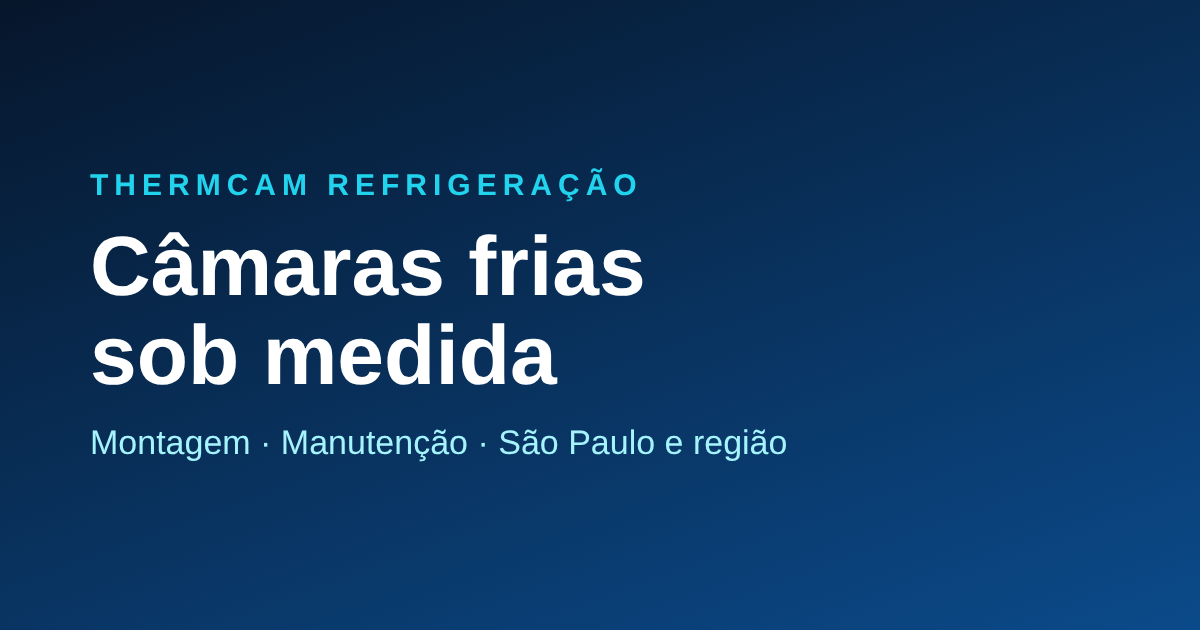
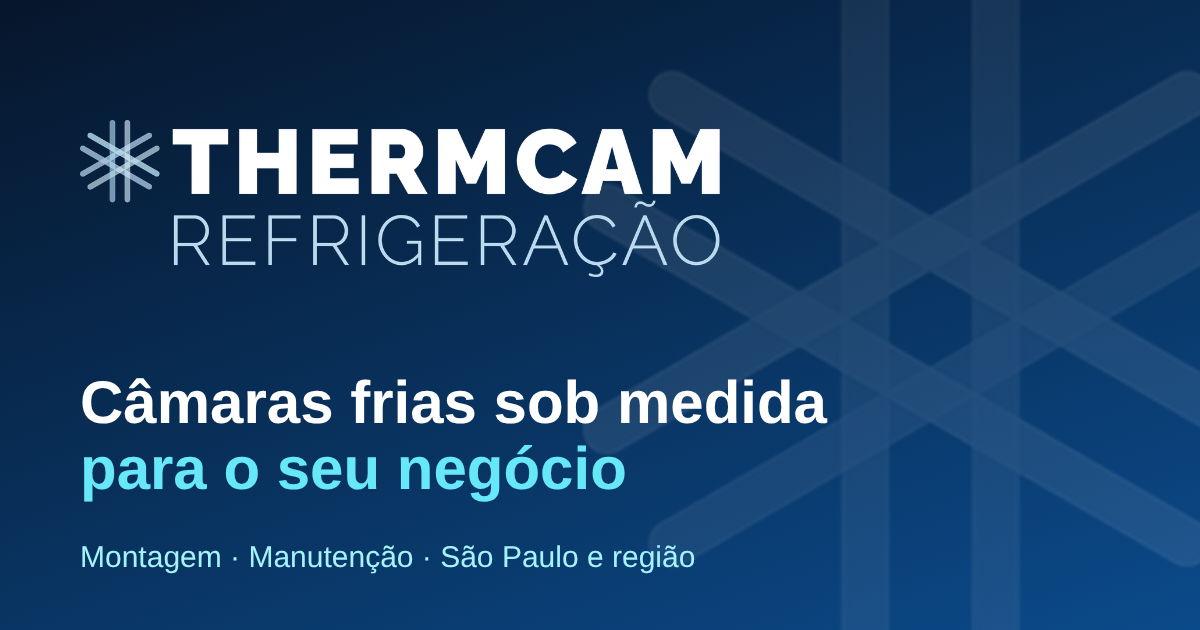
Add files via upload

diff --git a/assets/style.css b/assets/style.css
@@ -5,7 +5,7 @@
   --f-head:'Sora',system-ui,sans-serif;--f-body:'DM Sans',system-ui,sans-serif;
 }
 *{box-sizing:border-box;margin:0;padding:0}
-html{scroll-behavior:smooth;scroll-padding-top:76px}
+html{scroll-behavior:smooth;scroll-padding-top:80px}
 body{font-family:var(--f-body);color:var(--ink);background:var(--bg);line-height:1.65;font-size:17px;-webkit-font-smoothing:antialiased}
 img{max-width:100%;display:block}
 a{color:inherit}
@@ -15,16 +15,16 @@ a{color:inherit}
 h1,h2,h3,h4{font-family:var(--f-head);line-height:1.15;letter-spacing:-.02em}
 
 /* Header */
-.site-header{position:sticky;top:0;z-index:50;background:rgba(6,22,43,.92);backdrop-filter:blur(10px);border-bottom:1px solid rgba(255,255,255,.07)}
-.bar{display:flex;align-items:center;justify-content:space-between;height:68px}
+.site-header{position:sticky;top:0;z-index:50;background:rgba(255,255,255,.95);backdrop-filter:blur(10px);border-bottom:1px solid #e1ebf3;box-shadow:0 4px 18px rgba(6,22,43,.06)}
+.bar{display:flex;align-items:center;justify-content:space-between;height:72px}
 .brand{display:flex;align-items:center;gap:10px;text-decoration:none;color:#fff;font:800 1.35rem var(--f-head)}
 .brand b{color:var(--ice)}
 .nav{display:flex;align-items:center;gap:6px}
-.nav a{color:#cfe4f5;text-decoration:none;font-weight:500;font-size:.95rem;padding:8px 12px;border-radius:10px}
-.nav a:hover{color:#fff;background:rgba(255,255,255,.08)}
+.nav a{color:#27425f;text-decoration:none;font-weight:500;font-size:.95rem;padding:8px 12px;border-radius:10px}
+.nav a:hover{color:var(--navy);background:#e8f2f9}
 .nav .btn{color:#fff;margin-left:6px}
 .burger{display:none;background:none;border:0;cursor:pointer;padding:10px}
-.burger i{display:block;width:24px;height:2.5px;background:#fff;margin:5px 0;border-radius:2px;transition:.25s}
+.burger i{display:block;width:24px;height:2.5px;background:var(--navy2);margin:5px 0;border-radius:2px;transition:.25s}
 
 /* Buttons */
 .btn{display:inline-flex;align-items:center;justify-content:center;gap:8px;font:700 .98rem var(--f-body);padding:12px 22px;border-radius:999px;text-decoration:none;border:2px solid transparent;cursor:pointer;transition:transform .15s,box-shadow .15s,background .15s}
@@ -46,6 +46,8 @@ h1,h2,h3,h4{font-family:var(--f-head);line-height:1.15;letter-spacing:-.02em}
   background-size:420px 420px;animation:fall 22s linear infinite}
 @keyframes fall{to{background-position:60px 420px}}
 .hero-grid{position:relative;display:grid;grid-template-columns:1.25fr .75fr;gap:48px;align-items:center}
+.hero-grid>*{min-width:0}
+.logo-img{height:54px;width:auto;display:block}
 .eyebrow{display:inline-block;font:700 .78rem var(--f-body);letter-spacing:.14em;text-transform:uppercase;color:var(--ice);margin-bottom:14px}
 .eyebrow.dark{color:#0891b2}
 .hero h1{font-size:clamp(2.1rem,5vw,3.7rem);font-weight:800}
@@ -169,15 +171,34 @@ h1,h2,h3,h4{font-family:var(--f-head);line-height:1.15;letter-spacing:-.02em}
 /* Mobile */
 @media (max-width:900px){
   body{font-size:16.5px}
-  .hero{padding:56px 0 64px}.hero-grid,.about,.contact-grid{grid-template-columns:1fr;gap:32px}
+  .hero{padding:56px 0 64px}.hero-grid,.about,.contact-grid{grid-template-columns:minmax(0,1fr);gap:32px}
   .hero-card{display:grid;grid-template-columns:1fr 1fr;gap:12px}.hero-card .temp{margin:0}.hero-card p{grid-column:1/-1;margin:0}
   .cols3,.grid{grid-template-columns:1fr}
   .gallery{grid-template-columns:repeat(2,1fr)}
   .foot{grid-template-columns:1fr}
   .section{padding:60px 0}
   .burger{display:block}
-  .nav{position:absolute;left:0;right:0;top:68px;background:var(--navy);flex-direction:column;align-items:stretch;padding:12px 16px 20px;gap:2px;display:none;border-bottom:1px solid rgba(255,255,255,.1)}
+  .nav{position:absolute;left:0;right:0;top:72px;background:#fff;box-shadow:0 14px 24px rgba(6,22,43,.12);flex-direction:column;align-items:stretch;padding:12px 16px 20px;gap:2px;display:none;border-bottom:1px solid #e1ebf3}
   .nav.open{display:flex}.nav a{padding:13px 10px}.nav .btn{margin:8px 0 0;text-align:center}
-  .btn-row .btn{flex:1 1 100%}
+  .btn-row .btn{flex:1 1 100%;white-space:normal;text-align:center}
+  .hero h1{overflow-wrap:break-word}
+  .hero-card{padding:16px}.temp{min-width:0;padding:14px 16px}.temp strong{font-size:2.1rem}.pulse{right:12px;top:16px}
 }
 @media (min-width:640px) and (max-width:900px){.grid{grid-template-columns:repeat(2,1fr)}}
+
+/* Logo e símbolo */
+.logo-img{height:54px;width:auto;display:block}
+.site-footer .logo-img{height:50px}
+.hero::after,.contact::after{content:'';position:absolute;pointer-events:none;background:url(symbol-white.png) center/contain no-repeat;opacity:.045}
+.hero::after{right:-110px;bottom:-130px;width:560px;height:560px}
+.contact{position:relative;overflow:hidden}
+.contact::after{left:-120px;bottom:-140px;width:460px;height:460px}
+.contact-grid{position:relative;z-index:1}
+.card-ph,.post-hero-ph{position:relative;overflow:hidden}
+.card-ph::after,.post-hero-ph::after{content:'';position:absolute;right:-6%;top:50%;transform:translateY(-50%);width:62%;aspect-ratio:1;background:url(symbol-white.png) center/contain no-repeat;opacity:.2}
+.card-ph span{position:relative;z-index:1}
+.page-head{position:relative;overflow:hidden}
+.page-head::after{content:'';position:absolute;right:-40px;top:50%;transform:translateY(-50%);width:340px;height:340px;background:url(symbol-white.png) center/contain no-repeat;opacity:.08}
+.page-head .wrap{position:relative;z-index:1}
+.proj-ph img{width:64px;height:64px;object-fit:contain;opacity:.92}
+@media (max-width:900px){.logo-img{height:42px}.site-footer .logo-img{height:44px}.hero::after{width:380px;height:380px;right:-90px;bottom:-60px}.page-head::after{width:220px;height:220px}}

diff --git a/build.js b/build.js
@@ -69,6 +69,14 @@ function cardHtml(p) {
 
 // ---------- Layout ----------
 const layoutTpl = read('src/layout.html');
+// Logo e ícones (gerados a partir do logo oficial em assets/)
+const logoFile = 'logo.png';
+const brandHtml = `<img class="logo-img" src="${BASE}/assets/logo.png" alt="${esc(cfg.name)}" width="220" height="54">`;
+const brandFooterHtml = `<img class="logo-img" src="${BASE}/assets/logo-white.png" alt="${esc(cfg.name)}" width="220" height="54" loading="lazy">`;
+const iconsHtml = `<link rel="icon" href="${BASE}/assets/favicon.ico" sizes="any">
+<link rel="icon" type="image/png" sizes="32x32" href="${BASE}/assets/favicon-32.png">
+<link rel="apple-touch-icon" href="${BASE}/assets/apple-touch-icon.png">
+<link rel="manifest" href="${BASE}/site.webmanifest">`;
 const waLink = (msg) => `https://wa.me/${cfg.whatsapp}?text=${encodeURIComponent(msg)}`;
 function page({ title, description, path: p, body, jsonld = [], image = '', type = 'website', noindex = false, keywords = '' }) {
   const canonical = `${SITE}${p}`;
@@ -77,7 +85,7 @@ function page({ title, description, path: p, body, jsonld = [], image = '', type
     title: esc(title), description: esc(description), canonical, keywords: esc(keywords),
     og_image: esc(imageAbs(image)), og_type: type, jsonld: ld, body,
     robots: noindex ? 'noindex,nofollow' : 'index,follow,max-image-preview:large',
-    base: BASE, site: SITE, name: esc(cfg.name), phone: esc(cfg.phone),
+    brand: brandHtml, brand_footer: brandFooterHtml, icons: iconsHtml, base: BASE, site: SITE, name: esc(cfg.name), phone: esc(cfg.phone),
     wa: waLink('Olá! Vim pelo site e gostaria de um orçamento de câmara fria.'),
     email: esc(cfg.email), instagram: cfg.instagram, facebook: cfg.facebook,
     address: esc(`${cfg.address.street}, ${cfg.address.district}, ${cfg.address.city} - ${cfg.address.state}`),
@@ -92,7 +100,7 @@ const business = {
   '@id': `${SITE}/#negocio`,
   name: cfg.name, url: SITE + '/', description: cfg.description,
   telephone: '+' + cfg.whatsapp, email: cfg.email,
-  image: `${SITE}/assets/og-default.png`,
+  image: `${SITE}/assets/og-default.png`, logo: `${SITE}/assets/logo.png`,
   address: {
     '@type': 'PostalAddress', streetAddress: cfg.address.street, addressLocality: cfg.address.city,
     addressRegion: cfg.address.state, addressCountry: cfg.address.country,
@@ -114,7 +122,7 @@ const projFiles = fs.existsSync(projDir) ? fs.readdirSync(projDir).filter((f) =>
 const projectsHtml = projFiles.length
   ? projFiles.map((f, i) => `<figure class="proj"><img src="${BASE}/assets/img/projetos/${f}" alt="Projeto de câmara fria Thermcam ${i + 1}" loading="lazy"></figure>`).join('\n')
   : ['Câmara de resfriados', 'Câmara de congelados', 'Painéis isotérmicos', 'Porta frigorífica'].map((t, i) =>
-    `<figure class="proj proj-ph" style="--h:${190 + i * 14}"><svg viewBox="0 0 64 64" aria-hidden="true"><g stroke="currentColor" stroke-width="2.5" stroke-linecap="round"><path d="M32 8v48M11 20l42 24M11 44l42-24"/></g></svg><figcaption>${t}</figcaption></figure>`).join('\n');
+    `<figure class="proj proj-ph" style="--h:${190 + i * 14}"><img src="${BASE}/assets/symbol-white.png" alt="" width="64" height="64"><figcaption>${t}</figcaption></figure>`).join('\n');
 
 const homeBody = fill(read('src/home.html'), {
   base: BASE, faq: faqHtml, projects: projectsHtml,
@@ -170,7 +178,7 @@ posts.forEach((p) => {
       image: [imageAbs(p.image)], datePublished: p.date, dateModified: p.date, inLanguage: 'pt-BR',
       mainEntityOfPage: url, keywords: p.keywords,
       author: { '@type': 'Organization', name: cfg.name, url: SITE + '/' },
-      publisher: { '@type': 'Organization', name: cfg.name, logo: { '@type': 'ImageObject', url: `${SITE}/assets/favicon.svg` } },
+      publisher: { '@type': 'Organization', name: cfg.name, logo: { '@type': 'ImageObject', url: logoFile ? `${SITE}/assets/${logoFile}` : `${SITE}/assets/favicon.svg` } },
     }, {
       '@context': 'https://schema.org', '@type': 'BreadcrumbList',
       itemListElement: [['Início', SITE + '/'], ['Notícias', SITE + '/noticias/'], [p.title, url]]
@@ -192,5 +200,11 @@ write('feed.xml', `<?xml version="1.0" encoding="UTF-8"?>\n<rss version="2.0"><c
 // ---------- Arquivos estáticos ----------
 fs.cpSync(path.join(root, 'assets'), path.join(dist, 'assets'), { recursive: true });
 fs.cpSync(path.join(root, 'admin'), path.join(dist, 'admin'), { recursive: true });
+fs.copyFileSync(path.join(root, 'assets/favicon.ico'), path.join(dist, 'favicon.ico'));
+write('site.webmanifest', JSON.stringify({
+  name: cfg.name, short_name: cfg.shortName, start_url: `${BASE}/`, scope: `${BASE}/`, display: 'standalone',
+  background_color: '#ffffff', theme_color: '#06162b', lang: 'pt-BR',
+  icons: [192, 512].map((s) => ({ src: `${BASE}/assets/icon-${s}.png`, sizes: `${s}x${s}`, type: 'image/png' })),
+}, null, 2));
 fs.writeFileSync(path.join(dist, '.nojekyll'), '');
 console.log(`OK: ${posts.length} matérias publicadas · base="${BASE}" · ${SITE}`);

diff --git a/src/layout.html b/src/layout.html
@@ -7,9 +7,9 @@
 <meta name="description" content="{{description}}">
 <meta name="keywords" content="{{keywords}}">
 <meta name="robots" content="{{robots}}">
-<meta name="theme-color" content="#06162b">
+<meta name="theme-color" content="#ffffff">
 <link rel="canonical" href="{{canonical}}">
-<link rel="icon" href="{{base}}/assets/favicon.svg" type="image/svg+xml">
+{{icons}}
 <link rel="alternate" type="application/rss+xml" title="{{name}}" href="{{site}}/feed.xml">
 <meta property="og:locale" content="pt_BR">
 <meta property="og:type" content="{{og_type}}">
@@ -29,10 +29,7 @@
 <a class="skip" href="#main">Pular para o conteúdo</a>
 <header class="site-header" id="top">
   <div class="wrap bar">
-    <a class="brand" href="{{base}}/" aria-label="{{name}} — início">
-      <svg viewBox="0 0 64 64" width="34" height="34" aria-hidden="true"><g stroke="#22d3ee" stroke-width="5" stroke-linecap="round"><path d="M32 8v48M11 20l42 24M11 44l42-24"/></g><circle cx="32" cy="32" r="6" fill="#ff7a1a"/></svg>
-      <span>Therm<b>cam</b></span>
-    </a>
+    <a class="brand" href="{{base}}/" aria-label="{{name}} — início">{{brand}}</a>
     <button class="burger" id="burger" aria-label="Abrir menu" aria-expanded="false"><i></i><i></i><i></i></button>
     <nav class="nav" id="nav" aria-label="Principal">
       <a href="{{base}}/#servicos">Serviços</a>
@@ -51,7 +48,7 @@
 <footer class="site-footer">
   <div class="wrap foot">
     <div>
-      <a class="brand" href="{{base}}/"><span>Therm<b>cam</b></span></a>
+      <a class="brand" href="{{base}}/">{{brand_footer}}</a>
       <p>Câmaras frias, painéis isotérmicos e refrigeração comercial em São Paulo e região.</p>
     </div>
     <div>

diff --git a/admin/index.html b/admin/index.html
@@ -5,7 +5,7 @@
 <meta name="viewport" content="width=device-width, initial-scale=1">
 <meta name="robots" content="noindex,nofollow">
 <title>Painel Thermcam — Publicar matérias</title>
-<link rel="icon" href="../assets/favicon.svg">
+<link rel="icon" href="../assets/favicon-32.png">
 <style>
 :root{--navy:#06162b;--navy2:#0b2545;--ice:#22d3ee;--hot:#ff7a1a;--wa:#22c55e;--line:#dbe6ef;--muted:#5b6b7e}
 *{box-sizing:border-box}
@@ -44,7 +44,7 @@ small,.hint{color:var(--muted);font-size:.85rem}
 </head>
 <body>
 <header>
-  <h1>Therm<b>cam</b> · Painel de matérias</h1>
+  <h1 style="display:flex;align-items:center;gap:10px"><img src="../assets/symbol-white.png" alt="" width="30" height="30">Therm<b>cam</b> · Painel de matérias</h1>
   <a id="siteLink" href="../" target="_blank">Ver site ↗</a>
 </header>
 <main>
